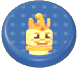
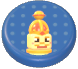
Chess pieces: the king and the queen told apart at a glance

Changed region(s): [[0.3077, 0.1449, 0.6923, 0.7826]]

diff --git a/src/assets/parts/chessman.ts b/src/assets/parts/chessman.ts
@@ -1,10 +1,12 @@
 /**
  * Living toy chess pieces (DESIGN.md «Chess kingdom»): the folk of the chess kingdom and the knight of
- * «Великі шахи». The body is the piece's own shape — king (a crown with a ball on top, no cross),
- * queen (a coronet), rook (a little tower with a door and battlements), bishop (a mitre-cap with a
- * slit), knight (a horse head with a mane), pawn (a round head) — with a friendly 8×8 face, little
- * arms and a round base instead of legs. White: cream with mustard trims; black: chocolate with cream
- * trims. Heights ≈ pawn 1.05, rook 1.2, knight 1.3, bishop 1.33, queen 1.4, king 1.5 blocks.
+ * «Великі шахи». The body is the piece's own shape — king (the tallest: a closed crown of arches over a
+ * coral cap with a big round orb on top, no cross), queen (an open coronet of little points each with a
+ * ball, a slim waist over a wide skirt-like base), rook (a little tower with a door and battlements),
+ * bishop (a mitre-cap with a slit), knight (a horse head with a mane), pawn (a round head) — with a
+ * friendly 8×8 face, little arms and a round base instead of legs. White: cream with mustard trims;
+ * black: chocolate with cream trims. Heights ≈ pawn 1.0, rook 1.2, queen 1.3, knight 1.3, bishop 1.4,
+ * king 1.7 blocks: the king and the queen are told apart at a glance, also at HUD size.
  *
  * The rig is a 'biped' so the shared animator (assets/animate.ts) drives it: `legL`/`legR` are empty
  * pivots (there are no legs) and the base belongs to the rig root, so the whole piece hops.
@@ -56,21 +58,28 @@ interface Dims {
   head: V3;
   round: number;
   base: number;
+  /** A slim waist over a skirt (the queen): the waist's height (0…1) and radius. */
+  waist?: [number, number];
 }
 
 const BASE_H = 0.16;
 const COLLAR = 0.05;
 const DIMS: Record<PieceKind, Dims> = {
-  king: { body: 0.56, r0: 0.26, r1: 0.16, head: [0.4, 0.36, 0.36], round: 0.08, base: 0.34 },
-  queen: { body: 0.52, r0: 0.27, r1: 0.15, head: [0.38, 0.34, 0.34], round: 0.09, base: 0.34 },
+  king: { body: 0.7, r0: 0.28, r1: 0.17, head: [0.4, 0.36, 0.36], round: 0.08, base: 0.35 },
+  queen: { body: 0.5, r0: 0.34, r1: 0.15, head: [0.38, 0.34, 0.34], round: 0.09, base: 0.39, waist: [0.68, 0.1] },
   bishop: { body: 0.5, r0: 0.25, r1: 0.15, head: [0.36, 0.33, 0.34], round: 0.1, base: 0.32 },
   rook: { body: 0.5, r0: 0.27, r1: 0.23, head: [0.46, 0.34, 0.42], round: 0.05, base: 0.34 },
   knight: { body: 0.48, r0: 0.26, r1: 0.17, head: [0.32, 0.34, 0.3], round: 0.07, base: 0.33 },
   pawn: { body: 0.34, r0: 0.25, r1: 0.12, head: [0.4, 0.38, 0.38], round: 0.15, base: 0.31 },
 };
 
-/** The body's radius at height t (0 bottom … 1 top): a soft concave chess-piece taper. */
-const rAt = (d: Dims, t: number) => d.r1 + (d.r0 - d.r1) * Math.pow(1 - t, 1.7);
+/** The body's radius at height t (0 bottom … 1 top): a soft concave chess-piece taper, or (with a
+ *  waist) a skirt flaring out below a slim waist and a little bodice above it. */
+const rAt = (d: Dims, t: number): number => {
+  if (!d.waist) return d.r1 + (d.r0 - d.r1) * Math.pow(1 - t, 1.7);
+  const [wt, wr] = d.waist;
+  return t < wt ? wr + (d.r0 - wr) * Math.pow(1 - t / wt, 2.2) : wr + (d.r1 - wr) * Math.pow((t - wt) / (1 - wt), 1.4);
+};
 
 // ─── faces ──────────────────────────────────────────────────────────────────
 
@@ -246,6 +255,45 @@ function crown(b: Bits, top: number, r: number, points: number, colour: string, 
   }
 }
 
+/** The king's closed crown on a head whose top is at y = top: a band, two arches crossing over a
+ *  coral cap, and a big round orb on a short stem (no cross). */
+function closedCrown(b: Bits, top: number, r: number, colour: string, jewel: string): void {
+  const archH = 0.22;
+  b.cyl(r + 0.01, r, 0.1, [0, top, 0], colour, 16);
+  b.ball(r * 0.9, [0, top + 0.03, 0], jewel, [1, (archH - 0.02) / (r * 0.9), 1]);
+  for (const a of [0, Math.PI / 2]) {
+    const arch = new THREE.TorusGeometry(r * 0.93, 0.032, 6, 14, Math.PI).scale(1, archH / (r * 0.93), 1).rotateY(a);
+    b.add(arch, [0, top + 0.04, 0], colour);
+  }
+  for (let i = 0; i < 4; i++) {
+    const a = (i / 4) * Math.PI * 2 + Math.PI / 4;
+    b.ball(0.03, [Math.sin(a) * r, top + 0.06, Math.cos(a) * r], colour);
+  }
+  b.box([0.07, 0.07, 0.03], [0, top + 0.005, r + 0.012], jewel, [0, 0, Math.PI / 4]);
+  // the orb: a big ball with a band round its middle
+  b.cyl(0.035, 0.045, 0.06, [0, top + archH + 0.06, 0], colour, 10);
+  b.ball(0.1, [0, top + archH + 0.17, 0], colour);
+  b.add(new THREE.TorusGeometry(0.1, 0.018, 6, 18), [0, top + archH + 0.17, 0], jewel, [Math.PI / 2, 0, 0]);
+}
+
+/** The queen's open coronet: a flaring band and little points leaning out, each ending in a ball. */
+function coronet(b: Bits, top: number, r: number, colour: string, jewel: string): void {
+  const n = 7;
+  const tall = 0.14;
+  const lean = 0.28;
+  b.cyl(r + 0.03, r, 0.08, [0, top, 0], colour, 18);
+  for (let i = 0; i < n; i++) {
+    const a = (i / n) * Math.PI * 2;
+    // tipped out about its foot's tangent: lean towards +Z, then turned round to its place
+    const rr = r + 0.012 + (Math.sin(lean) * tall) / 2;
+    const point = new THREE.BoxGeometry(0.045, tall, 0.035).rotateX(lean).rotateY(a);
+    b.add(point, [Math.sin(a) * rr, top + 0.03 + (Math.cos(lean) * tall) / 2, Math.cos(a) * rr], colour);
+    const tip = r + 0.012 + Math.sin(lean) * tall;
+    b.ball(0.036, [Math.sin(a) * tip, top + 0.04 + Math.cos(lean) * tall, Math.cos(a) * tip], colour);
+  }
+  b.box([0.06, 0.06, 0.03], [0, top, r + 0.03], jewel, [0, 0, Math.PI / 4]);
+}
+
 export interface ChessmanOptions {
   /** A little gold crown on the head (the pawn that reached the far row, for its picture). */
   crown?: boolean;
@@ -277,7 +325,8 @@ export function buildChessman(skin: Skin, kind: PieceKind, side: PieceSide, opts
   // the body: a turned (lathe) shape tapering up, a trim collar on top
   const body = new Bits();
   const prof: THREE.Vector2[] = [];
-  for (let i = 0; i <= 10; i++) prof.push(new THREE.Vector2(rAt(d, i / 10), (i / 10) * d.body));
+  const steps = d.waist ? 14 : 10;
+  for (let i = 0; i <= steps; i++) prof.push(new THREE.Vector2(rAt(d, i / steps), (i / steps) * d.body));
   body.add(new THREE.LatheGeometry(prof, 18), [0, 0, 0], L.body);
   body.cyl(d.r1 + 0.065, d.r1 + 0.065, COLLAR, [0, d.body + COLLAR / 2, 0], L.trim, 16);
   const ring = (t: number, hex: string, h = 0.045, out = 0.012) => {
@@ -287,11 +336,12 @@ export function buildChessman(skin: Skin, kind: PieceKind, side: PieceSide, opts
   const front = (t: number, out = 0) => rAt(d, t) + out;
   switch (kind) {
     case 'king':
-      ring(0.42, L.trim, 0.05);
-      for (const t of [0.6, 0.75]) body.ball(0.028, [0, t * d.body, front(t, -0.006)], L.trim);
+      ring(0.36, L.trim, 0.05);
+      for (const t of [0.52, 0.66, 0.8]) body.ball(0.028, [0, t * d.body, front(t, -0.006)], L.trim);
       break;
     case 'queen':
-      ring(0.06, L.trim, 0.06, 0.03);
+      ring(0.05, L.trim, 0.05, 0.02);
+      ring(d.waist![0], L.trim, 0.04, 0.012);
       for (let i = 0; i < 8; i++) {
         const a = (i / 8) * Math.PI * 2;
         body.ball(0.035, [Math.sin(a) * (d.r1 + 0.06), d.body + COLLAR, Math.cos(a) * (d.r1 + 0.06)], L.trim);
@@ -324,10 +374,10 @@ export function buildChessman(skin: Skin, kind: PieceKind, side: PieceSide, opts
   let faceAt: V3 = [0, hh / 2, 0];
   switch (kind) {
     case 'king':
-      crown(hb, hh, Math.min(hw, hd) / 2 - 0.005, 5, L.trim, L.jewel, { tall: 0.12, king: true });
+      closedCrown(hb, hh, Math.min(hw, hd) / 2 - 0.005, L.trim, L.jewel);
       break;
     case 'queen':
-      crown(hb, hh, Math.min(hw, hd) / 2 - 0.005, 8, L.trim, L.jewel, { tall: 0.11 });
+      coronet(hb, hh, Math.min(hw, hd) / 2 - 0.005, L.trim, L.jewel);
       break;
     case 'bishop':
       hb.ball(1, [0, hh + 0.03, -0.005], L.body, [0.165, 0.27, 0.16]);

diff --git a/tools/hud/bake.html b/tools/hud/bake.html
@@ -1186,7 +1186,7 @@ shoot('jump', roundTile(1, C.green, printSpring, 0.6), 130, 130, { shadow: 'tile
   }
   shoot('face-chess-king', roundTile(0.62, C.navy, folkPrint('chess_king', C.navy, 0.3, 0.55), 0.3), 76, 76, { shadow: 'mark-sh', dpr: LO });
   for (const kind of ['rook', 'bishop', 'queen', 'king', 'knight', 'pawn'])
-    shoot('piece-' + kind, roundTile(1, C.navy, modelPrint(piece(kind), C.navy, -0.5, 0.7), 0.6), 130, 130, { shadow: 'tile6-sh' });
+    shoot('piece-' + kind, roundTile(1, C.navy, modelPrint(piece(kind), C.navy, -0.5, kind === 'king' ? 0.6 : 0.7), 0.6), 130, 130, { shadow: 'tile6-sh' });
   {
     // the queen takes: the white queen, an arm up, over a black pawn
     const g = new THREE.Group();

diff --git a/src/ui/hudSprites.ts b/src/ui/hudSprites.ts
@@ -360,7 +360,7 @@ export const SPRITES = {
   'piece-knight': {w: 130,h: 130,oy: 0,x: 25,y: 20,cw: 80,ch: 77},
   'piece-pawn': {w: 130,h: 130,oy: 0,x: 25,y: 20,cw: 80,ch: 77},
   'item-chess-take': {w: 130,h: 130,oy: 0,x: 25,y: 20,cw: 80,ch: 77},
-  'b-bigchess': {w: 200,h: 200,oy: 0.6,x: 32,y: 64,cw: 133,ch: 116},
+  'b-bigchess': {w: 200,h: 200,oy: 0.6,x: 32,y: 62,cw: 133,ch: 118},
   'b-bigchess-sh': {w: 200,h: 200,oy: 0.6,x: 30,y: 66,cw: 150,ch: 120},
   'new-chess-kingdom': {w: 200,h: 200,oy: 0.9,x: 36,y: 51,cw: 127,ch: 138},
   'new-chess-kingdom-sh': {w: 200,h: 200,oy: 0.9,x: 34,y: 80,cw: 166,ch: 120},
